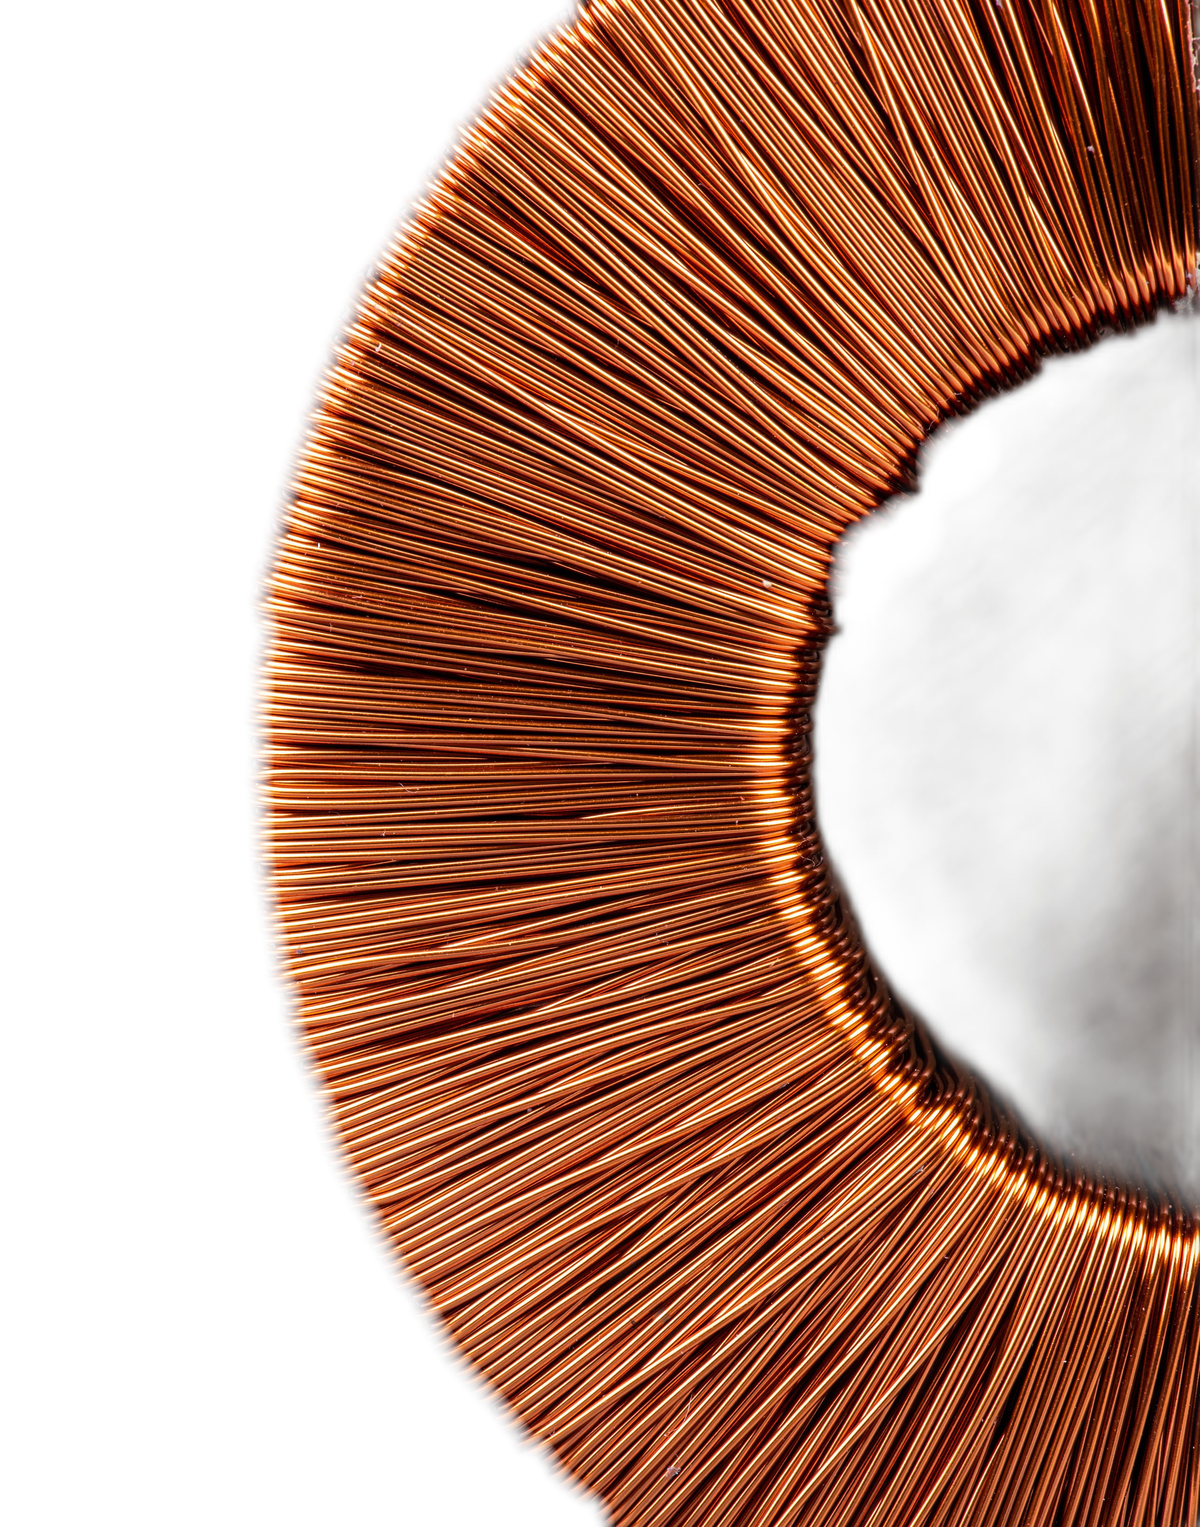
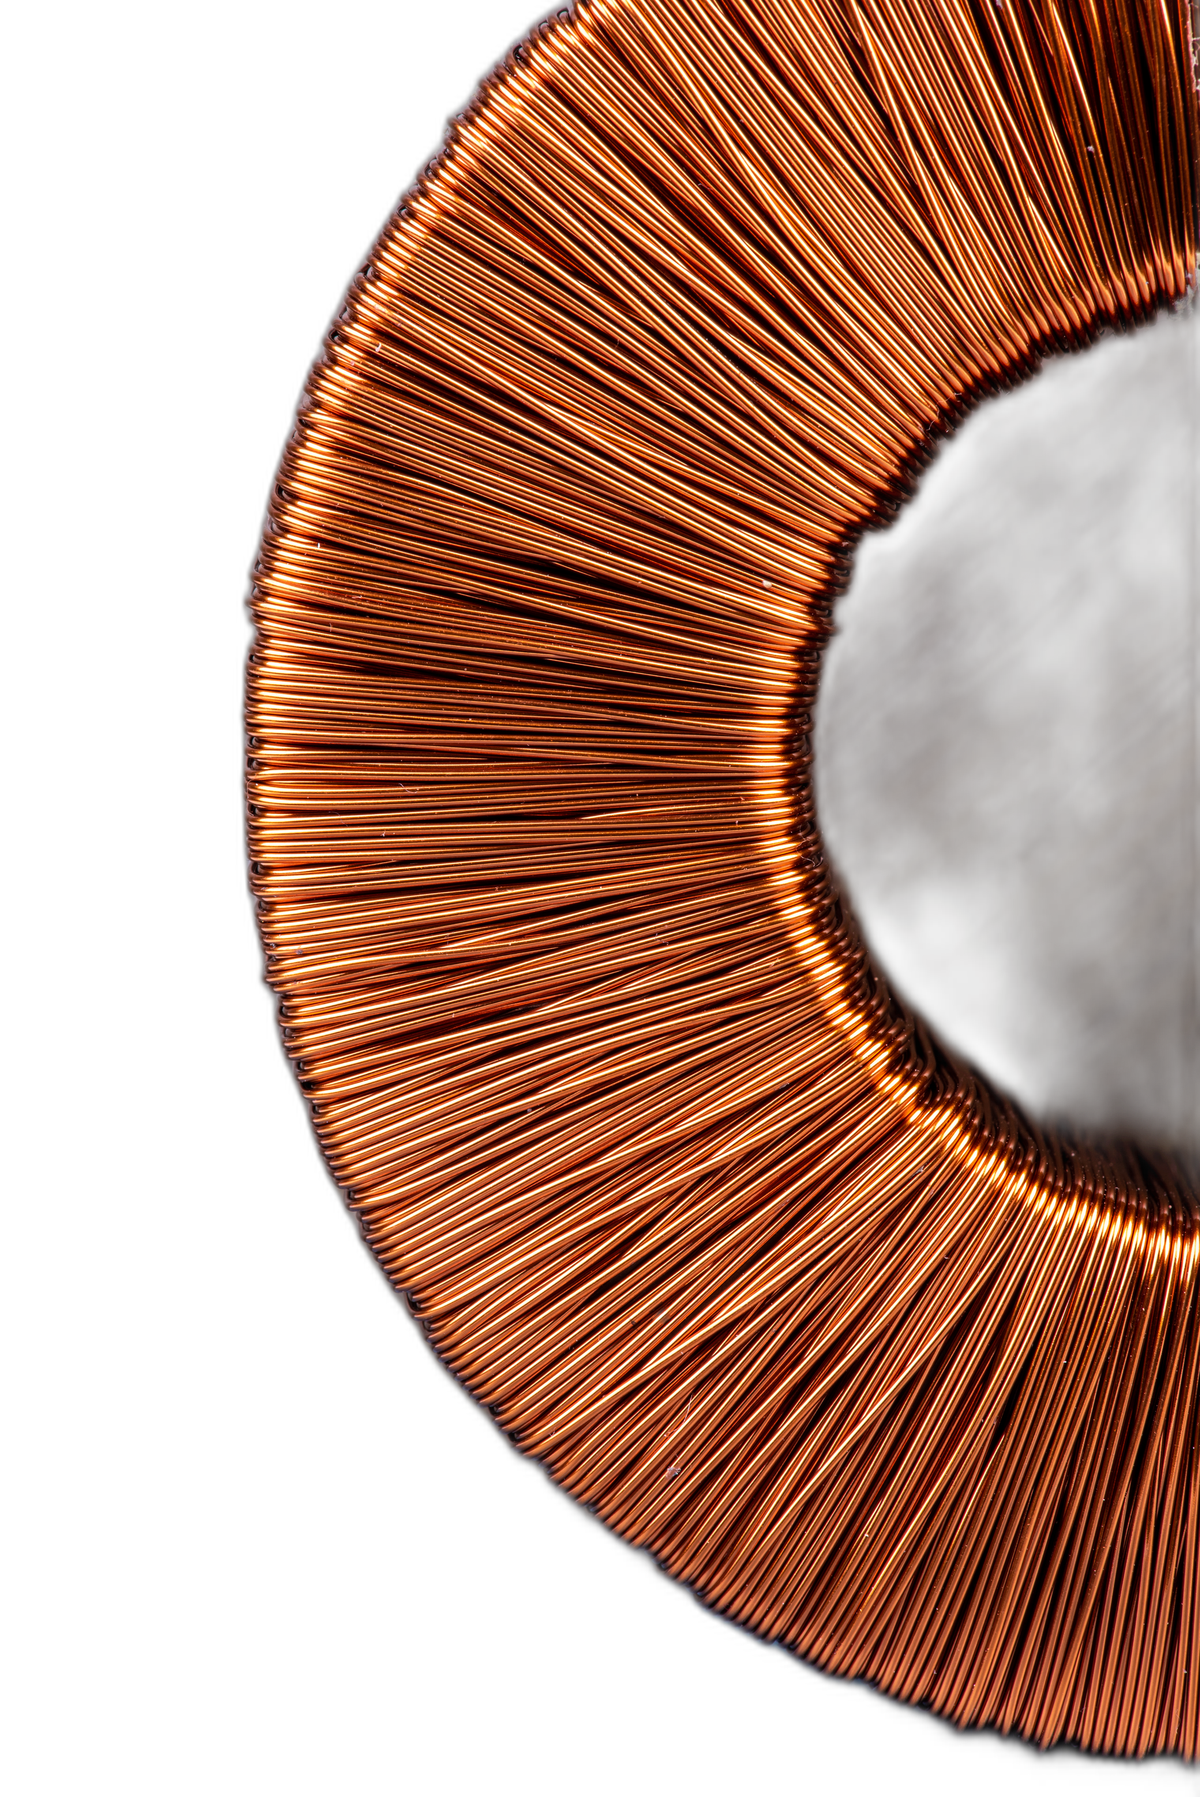
Switch to Baskerville, reveal full toroid, match section labels
- Body and display fonts changed to Libre Baskerville (research-backed credibility)
- Hero image re-processed from original stock photo to show full bottom of toroid
- Hero image container extended below section for natural bleed
- Our Pillars and How We Work labels matched in size (1rem) and color (#a07850)
- Added design-decisions folder with typography research documentation

diff --git a/design-decisions/typography.html b/design-decisions/typography.html
@@ -1,0 +1,87 @@
+<!DOCTYPE html>
+<html lang="en">
+<head>
+  <meta charset="UTF-8">
+  <meta name="viewport" content="width=device-width, initial-scale=1.0">
+  <title>Design Decisions: Typography</title>
+  <style>
+    body { font-family: 'Georgia', serif; max-width: 720px; margin: 40px auto; padding: 0 20px; color: #2a2a2a; line-height: 1.7; }
+    h1 { font-size: 1.8rem; border-bottom: 2px solid #b8975a; padding-bottom: 12px; }
+    h2 { font-size: 1.3rem; margin-top: 2rem; color: #444; }
+    .study { background: #f9f7f4; border-left: 3px solid #b8975a; padding: 16px 20px; margin: 20px 0; }
+    .study strong { display: block; margin-bottom: 4px; }
+    table { border-collapse: collapse; width: 100%; margin: 16px 0; }
+    th, td { text-align: left; padding: 8px 12px; border-bottom: 1px solid #ddd; }
+    th { background: #f2f0ed; font-weight: 600; }
+    .decision { background: #0a0a0a; color: #f0ece4; padding: 20px; border-radius: 4px; margin: 20px 0; }
+    .decision strong { color: #b8975a; }
+  </style>
+</head>
+<body>
+
+<h1>Design Decisions: Typography</h1>
+<p>This document records the research-backed reasoning behind the font and typographic choices on ampmanufacturing.com.</p>
+
+<h2>1. Body &amp; Display Font: Baskerville</h2>
+
+<div class="study">
+  <strong>The Errol Morris / New York Times Experiment (2012)</strong>
+  <p>The single largest study on font and believability ever conducted.</p>
+  <ul>
+    <li><strong>Sample size:</strong> 45,000+ respondents</li>
+    <li><strong>Researchers:</strong> Errol Morris (filmmaker/NYT contributor), David Dunning (Cornell psychology professor)</li>
+    <li><strong>Method:</strong> Readers took what appeared to be a quiz on the NYT website. They read a passage and indicated whether they agreed. The passage was randomly displayed in one of six typefaces. Readers had no idea the font was the variable being tested.</li>
+  </ul>
+
+  <p><strong>Fonts tested:</strong> Baskerville, Computer Modern, Georgia, Helvetica, Comic Sans, Trebuchet</p>
+
+  <table>
+    <tr><th>Font</th><th>Weighted Agreement Score</th></tr>
+    <tr><td><strong>Baskerville</strong></td><td><strong>0.885</strong></td></tr>
+    <tr><td>Computer Modern</td><td>0.853</td></tr>
+    <tr><td>Helvetica</td><td>0.767</td></tr>
+    <tr><td>Trebuchet</td><td>0.753</td></tr>
+    <tr><td>Georgia</td><td>0.724</td></tr>
+    <tr><td>Comic Sans</td><td>0.715</td></tr>
+  </table>
+
+  <p><strong>Result:</strong> Baskerville had the highest rate of agreement AND the lowest rate of disagreement. The p-value was 0.0068, confirming statistical significance. Dunning called the effect "rather large" given the uncontrolled online environment: "It is clear in the data that Baskerville is different from the other fonts."</p>
+
+  <p><strong>Why it works:</strong> Baskerville is a 250-year-old transitional serif designed by John Baskerville in 1757. Its sharp, high-contrast letterforms carry associations with established printing, academia, and historical gravitas without feeling decorative or attention-seeking.</p>
+</div>
+
+<div class="study">
+  <strong>Supporting research:</strong>
+  <ul>
+    <li><strong>Monotype/Neurons neuroscience study (2022-2023):</strong> 400+ participants across 8 countries. Serif typefaces scored +9% on trustworthiness.</li>
+    <li><strong>Piovesan et al. meta-analysis (2023):</strong> Reviewed 34 studies covering 635 typefaces. Serif typefaces were consistently associated with formality, tradition, stability, and authority.</li>
+    <li><strong>Song &amp; Schwarz (Yale/Michigan, 2008-2010):</strong> Processing fluency research. Statements in clear, high-contrast fonts are judged as more true. "If it's easy to read, it's easy to do, pretty, good, and true."</li>
+  </ul>
+</div>
+
+<div class="decision">
+  <strong>Our decision:</strong> Both body and display fonts are set to Libre Baskerville (Google Fonts web version of Baskerville). This is the single most empirically validated choice for maximizing reader belief and trust.
+</div>
+
+<h2>2. Lowercase Tagline: "the core of what we build is trust"</h2>
+
+<div class="study">
+  <strong>The premium brand pattern</strong>
+  <p>All-lowercase typography is a deliberate design choice used by premium and luxury brands to signal confidence, sophistication, and understatement. The logic: when you're confident in what you are, you don't need to shout.</p>
+  <ul>
+    <li><strong>Apple</strong> uses lowercase across product pages, taglines, and marketing copy.</li>
+    <li><strong>Aesop</strong> (luxury skincare) uses all-lowercase for product names and descriptions.</li>
+    <li><strong>Glossier, Mejuri, Everlane</strong> and other premium DTC brands follow the same pattern.</li>
+  </ul>
+  <p>Uppercase signals authority through volume. Lowercase signals authority through restraint. For a manufacturing company that wants to project quiet confidence and craftsmanship rather than aggressive salesmanship, lowercase is the more credible register.</p>
+</div>
+
+<div class="decision">
+  <strong>Our decision:</strong> The hero tagline uses CSS <code>text-transform: lowercase</code> to render "the core of what we build is trust" in all lowercase. This aligns with the understated, premium positioning of the brand.
+</div>
+
+<hr style="margin-top: 3rem;">
+<p><em>This document will be updated as new research-backed design decisions are made.</em></p>
+
+</body>
+</html>

diff --git a/css/styles.css b/css/styles.css
@@ -20,8 +20,8 @@
   --color-accent-muted: rgba(138, 138, 138, 0.12);
 
   /* Typography */
-  --font-sans: 'Inter', -apple-system, BlinkMacSystemFont, 'Segoe UI', sans-serif;
-  --font-display: 'Outfit', 'Inter', sans-serif;
+  --font-sans: 'Libre Baskerville', 'Georgia', serif;
+  --font-display: 'Libre Baskerville', 'Georgia', serif;
   --font-mono: 'SF Mono', 'Fira Code', monospace;
 
   /* Spacing */
@@ -300,7 +300,7 @@ section {
   padding-top: 120px;
   padding-bottom: 40px;
   position: relative;
-  overflow: hidden;
+  overflow: visible;
   background: #0a0a0a;
 }
 
@@ -315,7 +315,7 @@ section {
   position: absolute;
   right: -5%;
   top: 80px;
-  bottom: 0;
+  bottom: -150px;
   width: 50%;
   z-index: 1;
   pointer-events: none;
@@ -327,7 +327,7 @@ section {
   width: 100%;
   max-height: 100%;
   object-fit: contain;
-  object-position: right center;
+  object-position: right bottom;
 }
 
 .hero__title {
@@ -640,8 +640,8 @@ section {
 }
 
 .services__pillars-label {
-  color: rgba(255, 255, 255, 0.45);
-  font-size: 0.85rem;
+  color: #a07850;
+  font-size: 1rem;
   letter-spacing: 0.4em;
   text-transform: uppercase;
   text-align: left;
@@ -728,7 +728,7 @@ a.service-item:hover .service-item__number {
 
 .process--refined .section-label {
   color: #a07850;
-  font-size: 0.85rem;
+  font-size: 1rem;
   letter-spacing: 0.4em;
   font-weight: 500;
   font-family: var(--font-sans);

diff --git a/index.html b/index.html
@@ -11,7 +11,7 @@
   <title>ANT Manufacturing | Custom Toroidal Inductors</title>
   <link rel="preconnect" href="https://fonts.googleapis.com">
   <link rel="preconnect" href="https://fonts.gstatic.com" crossorigin>
-  <link href="https://fonts.googleapis.com/css2?family=Inter:wght@400;500;600&family=Outfit:wght@500;600;700&display=swap" rel="stylesheet">
+  <link href="https://fonts.googleapis.com/css2?family=Libre+Baskerville:ital,wght@0,400;0,700;1,400&family=EB+Garamond:wght@400;500;600;700&family=Inter:wght@400;500;600&family=Outfit:wght@500;600;700&display=swap" rel="stylesheet">
   <link rel="stylesheet" href="css/styles.css?v=20260209s">
 </head>
 <body>
